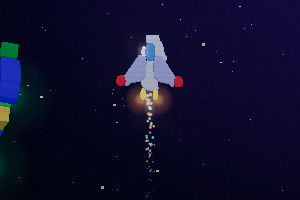
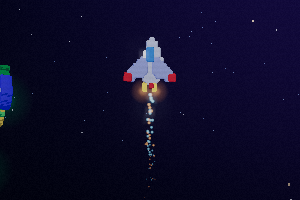
Match the arcade ship proportions: sprite-accurate scale, no notch-filling smoothing

diff --git a/src/render/enhanced/enhancedRenderer.ts b/src/render/enhanced/enhancedRenderer.ts
@@ -182,7 +182,7 @@ export class EnhancedRenderer implements GameRenderer {
     scene.add(this.particles.points);
 
     this.playerGroup = createShip('player');
-    this.playerGroup.scale.setScalar(1.45);
+    this.playerGroup.scale.setScalar(1.12);
     scene.add(this.playerGroup);
 
     this.buildBulletPools(scene);
@@ -592,10 +592,10 @@ export class EnhancedRenderer implements GameRenderer {
       group.position.y = worldY(enemy.y);
       group.position.z = enemy.state === 'formation' ? -enemy.row * 4 : 4;
       group.rotation.z = -enemy.angle;
-      group.rotation.x = -0.34;
+      group.rotation.x = -0.22;
       group.rotation.y = Math.sin(this.time * 2 + enemy.phase) * 0.08 - enemy.angle * 0.4;
 
-      const scale = enemy.kind === 'boss' ? 1.62 : enemy.kind === 'butterfly' ? 1.28 : 1.36;
+      const scale = enemy.kind === 'boss' ? 1.06 : enemy.kind === 'butterfly' ? 1.0 : 1.02;
       const pulse = enemy.flash > 0 ? 1.18 : 1;
       group.scale.setScalar(scale * pulse);
 
@@ -631,7 +631,7 @@ export class EnhancedRenderer implements GameRenderer {
     if (!this.twinGroup && this.scene) {
       const twinGroup = createShip('player');
       twinGroup.name = 'twin';
-      twinGroup.scale.setScalar(1.45);
+      twinGroup.scale.setScalar(1.12);
       twinGroup.visible = false;
       this.scene.add(twinGroup);
       this.twinGroup = twinGroup;
@@ -875,6 +875,8 @@ export class EnhancedRenderer implements GameRenderer {
 }
 
 export { PALETTES };
+
+
 
 
 

diff --git a/src/render/enhanced/shipGeometry.ts b/src/render/enhanced/shipGeometry.ts
@@ -11,15 +11,15 @@
 import * as THREE from 'three';
 import { spritePixels, type SpriteKey } from '../classic/sprites.js';
 
-const DEPTH_BASE = 2.6;
+const DEPTH_BASE = 2.2;
 const DEPTH_STEP = 0.5;
 const BEVEL = 0.42;
 
 /** Supersampling factor for contour extraction. */
 const SS = 4;
 /** Contour relaxation passes, in supersampled units. */
-const SMOOTH_PASSES = 3;
-const SMOOTH_STRENGTH = 0.45;
+const SMOOTH_PASSES = 0;
+const SMOOTH_STRENGTH = 0.22;
 
 /** Palette colours brighter than this get the unlit "glow" treatment. */
 const GLOW_LUMINANCE = 0.72;
@@ -321,4 +321,6 @@ export function shipGeometries(key: SpriteKey): ShipGeometry {
   cache.set(key, result);
   return result;
 }
+
+
 
